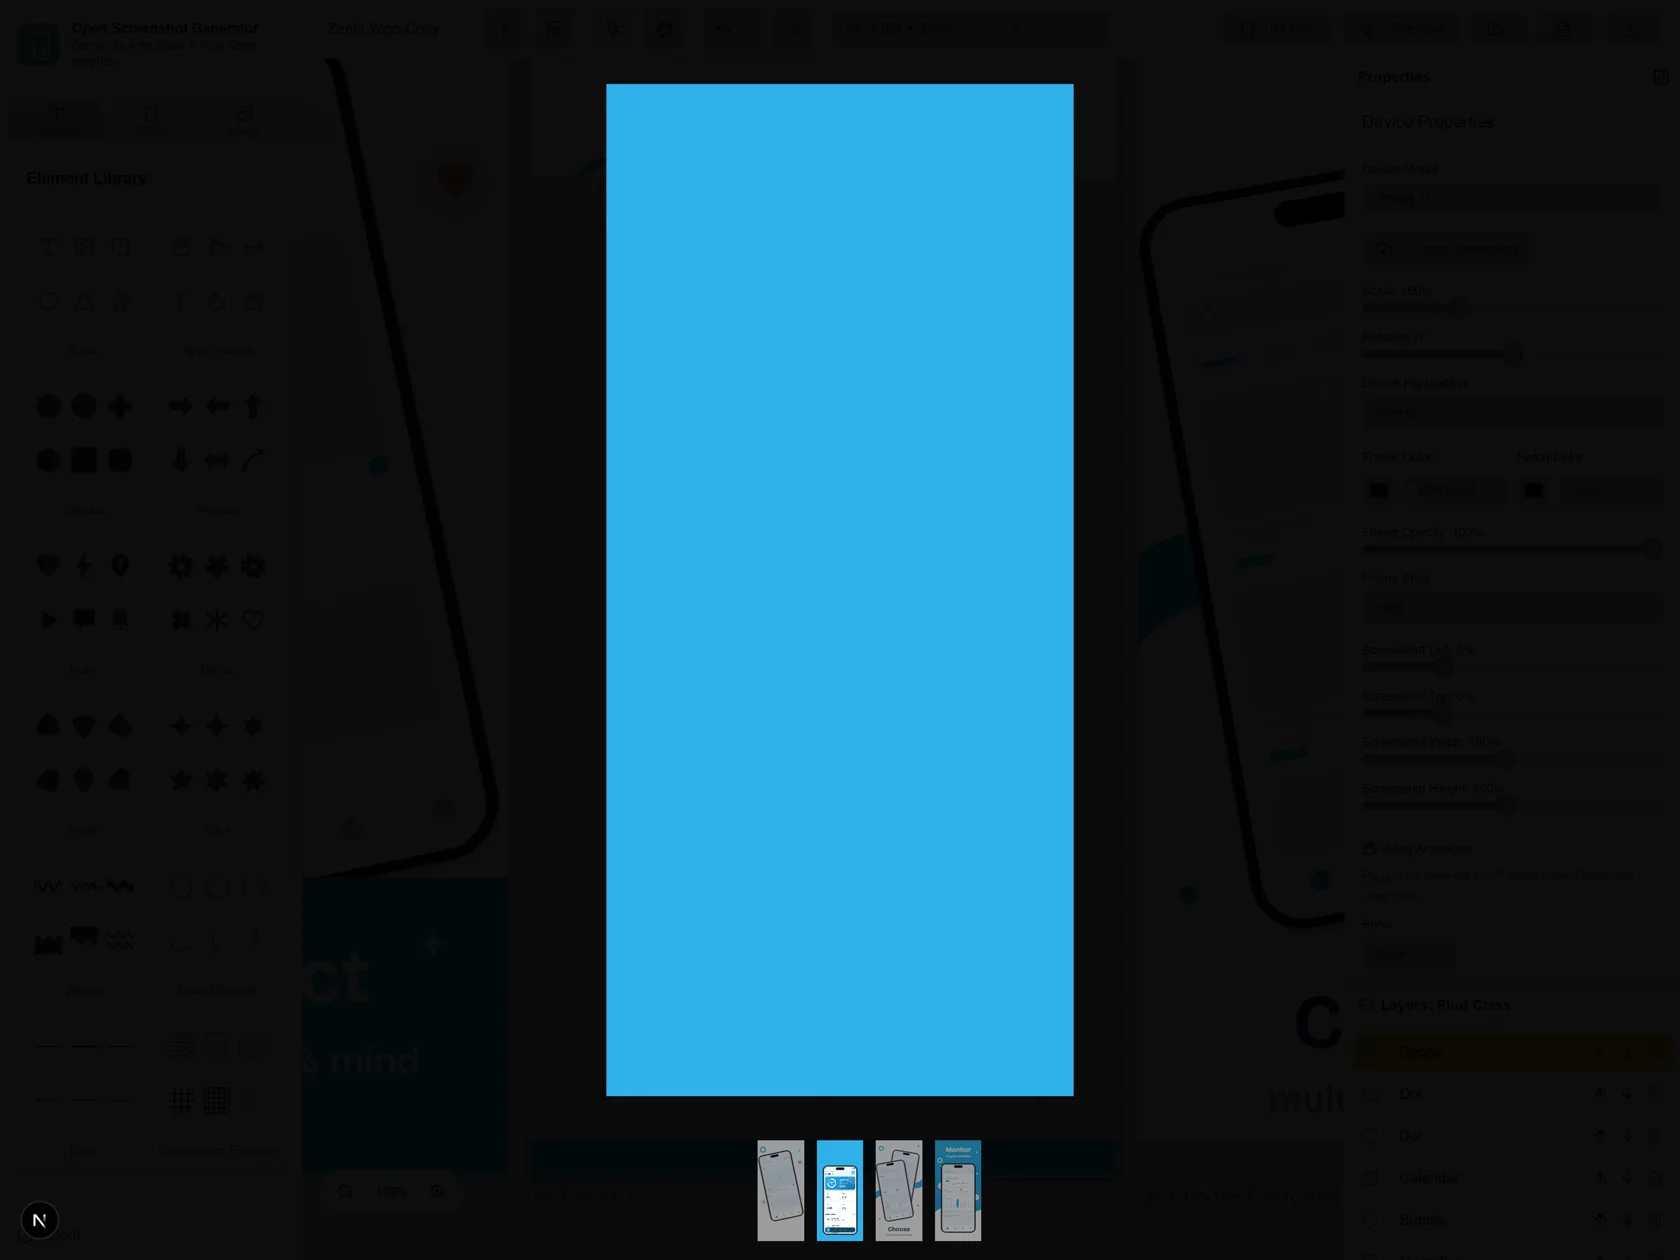
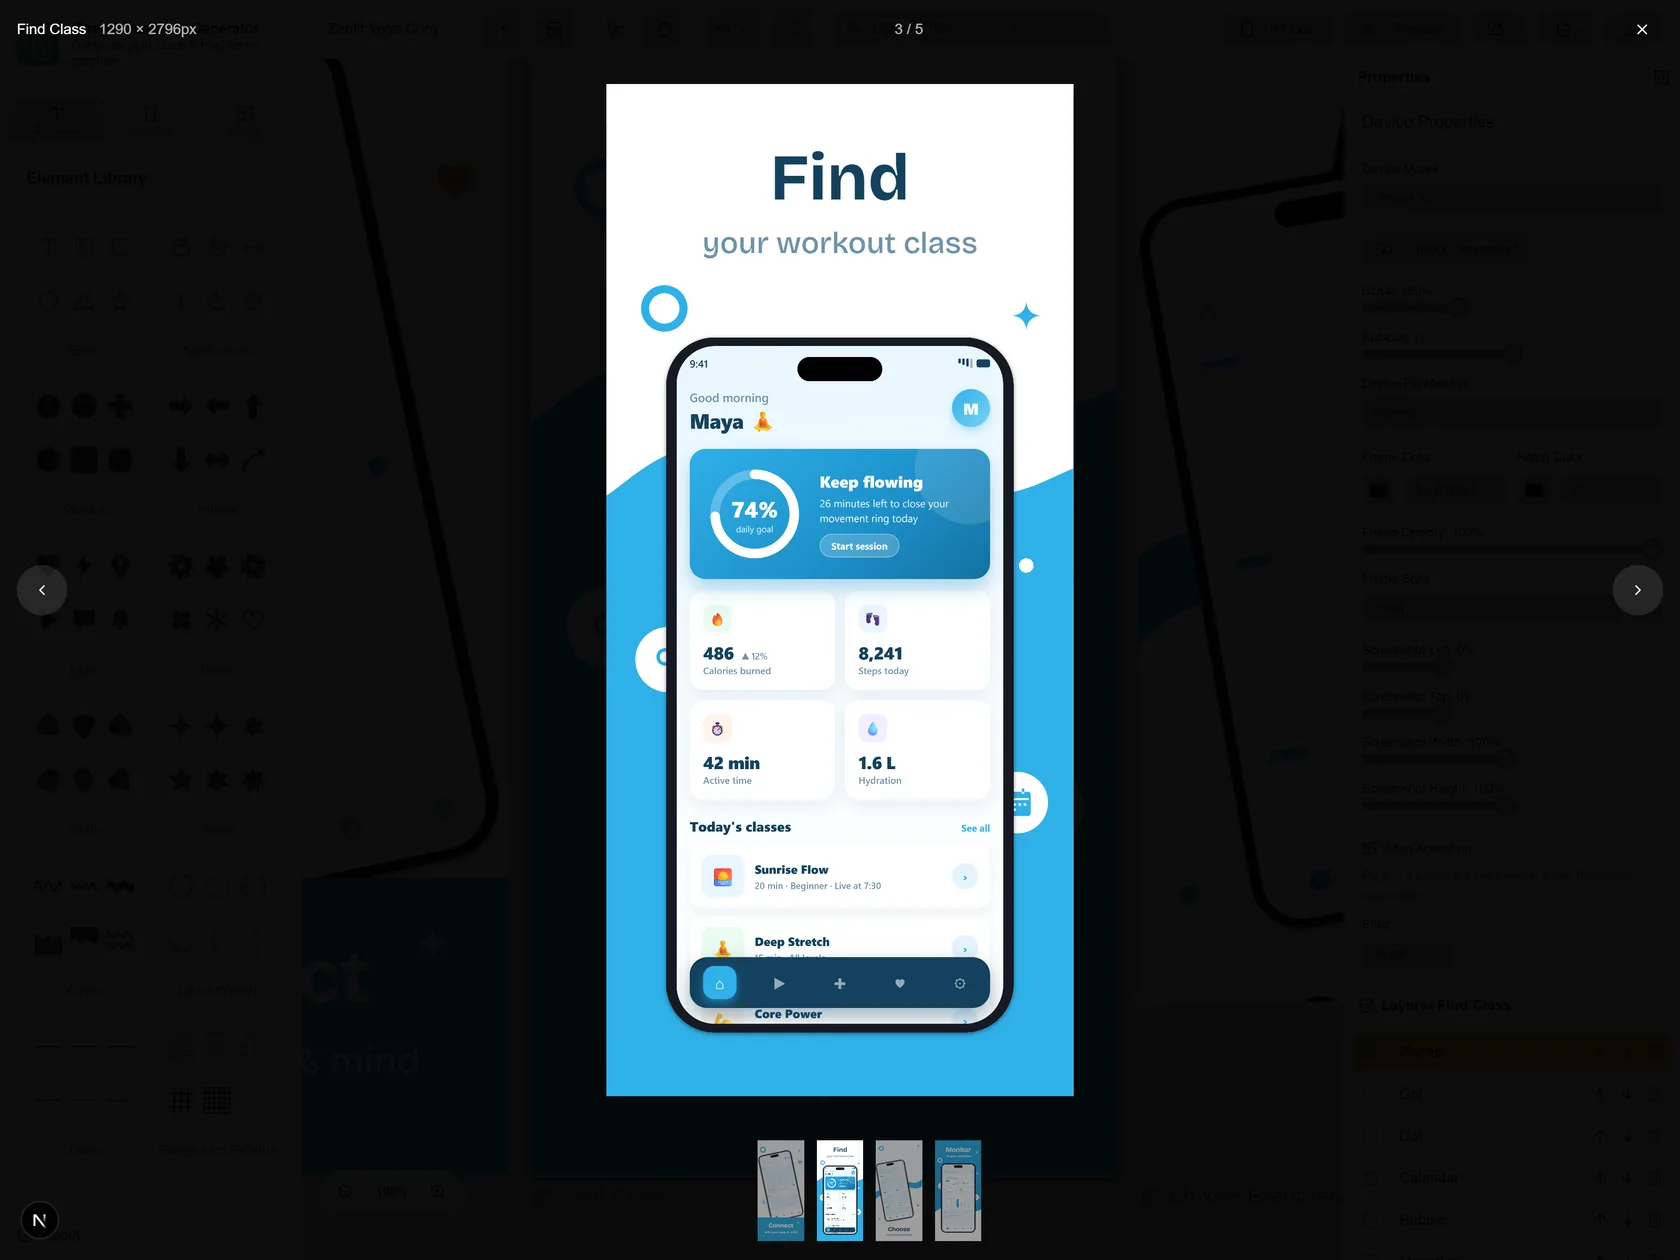
refactor: update font usage to Space Grotesk and improve contact links in multiple HTML files

diff --git a/website/js/main.js b/website/js/main.js
@@ -153,6 +153,9 @@ function buildScene(THREE) {
   // nothing flashes over the hero while textures stream in.
   state.drifters.visible = false;
   state.wall.position.x = 9999;
+  // Corridor strips render at base * intro * corridorFade, so the intro
+  // reveal and the scroll fade never fight over material.opacity.
+  state.corridorFade = 1;
   state.texCache = new Map();
   scene.add(state.corridor, state.stepCards, state.wall, state.drifters);
   window.__ABS_DEBUG = state;
@@ -179,6 +182,9 @@ function buildScene(THREE) {
   gsap.ticker.add(() => {
     camera.rotation.y += (state.mouse.x * -0.028 - camera.rotation.y) * 0.06;
     camera.rotation.x += (state.mouse.y * -0.02 - camera.rotation.x) * 0.06;
+    state.corridor.children.forEach((m) => {
+      m.material.opacity = m.userData.base * m.userData.intro * state.corridorFade;
+    });
     renderer.render(scene, camera);
   });
 
@@ -277,6 +283,8 @@ async function buildCorridor(state) {
     const mat = new THREE.MeshBasicMaterial({ map: tex, transparent: true, opacity: 0, depthWrite: false });
     const mesh = new THREE.Mesh(geo, mat);
     mesh.renderOrder = 1;
+    mesh.userData.base = targetOpacity;
+    mesh.userData.intro = 0;
     const side = i % 2 === 0 ? -1 : 1;
     // Two height bands that hug the top and bottom of the viewport so the
     // hero headline in the middle stays readable.
@@ -285,7 +293,7 @@ async function buildCorridor(state) {
     mesh.rotation.y = side * -(0.42 + rand() * 0.22);
     corridor.add(mesh);
 
-    gsap.to(mat, { opacity: targetOpacity, duration: 1.2, delay: 0.25 + i * 0.09, ease: "power2.out" });
+    gsap.to(mesh.userData, { intro: 1, duration: 1.2, delay: 0.25 + i * 0.09, ease: "power2.out" });
     gsap.from(mesh.position, {
       z: mesh.position.z - 7,
       duration: 1.6,
@@ -313,8 +321,11 @@ function initCorridorScroll(state) {
       endTrigger: ".steps-pin",
       end: "top top",
       scrub: 1,
-      // Past the hero the corridor is done; hide it so stray planes near
-      // the camera cannot smear over later sections.
+      // The strips dissolve over the back half of the ride, so by the time
+      // the group is hidden there is nothing left on screen to pop away.
+      onUpdate(self) {
+        state.corridorFade = 1 - clamp01((self.progress - 0.55) / 0.35);
+      },
       onLeave() { state.corridor.visible = false; },
       onEnterBack() { state.corridor.visible = true; },
     },
@@ -373,6 +384,7 @@ function initStepsScroll(state) {
     end: "+=260%",
     pin: true,
     scrub: 0.7,
+    anticipatePin: 1,
     onUpdate(self) {
       const idx = Math.min(2, Math.floor(self.progress * 2.9999));
       setActiveStep(idx);
@@ -425,13 +437,20 @@ function choreographStepMeshes(state, progress) {
       mesh.position.z = leave * -2.0;
       mesh.rotation.y = leave * 1.05;
       mesh.material.opacity = 1 - leave;
+      if (i === 0) {
+        // The first card has no arrival window before the pin, so it rises
+        // in over the first stretch instead of popping to full opacity.
+        const enter = clamp01(t / 0.08);
+        mesh.position.z += (1 - enter) * -1.6;
+        mesh.material.opacity *= enter * enter;
+      }
       if (i === meshes.length - 1) {
         // Last card stays put, then fades just before the pin releases so
         // it never freezes over the next section.
         mesh.position.x = 0;
         mesh.position.z = 0;
         mesh.rotation.y = 0;
-        mesh.material.opacity = clamp01((1 - t) / 0.15);
+        mesh.material.opacity = clamp01((1 - t) / 0.08);
       }
       // Gentle idle tilt while on stage.
       mesh.rotation.y += Math.sin(t * Math.PI) * 0.06;
@@ -518,6 +537,7 @@ function initWallScroll(state) {
       end: "+=260%",
       pin: true,
       scrub: 1,
+      anticipatePin: 1,
       invalidateOnRefresh: true,
     },
   });
@@ -535,12 +555,13 @@ async function buildDrifters(state) {
     const mat = new THREE.MeshBasicMaterial({
       map: tex,
       transparent: true,
-      opacity: 0.32,
+      opacity: 0,
       depthWrite: false,
     });
     const mesh = new THREE.Mesh(geo, mat);
     mesh.renderOrder = 3;
     mesh.userData.spec = spec;
+    mesh.userData.base = 0.32;
     drifters.add(mesh);
 
     gsap.to(mesh.rotation, {
@@ -564,13 +585,28 @@ async function buildDrifters(state) {
 }
 
 function initDrifterScroll(state) {
+  // The devices breathe in and out over a second rather than snapping,
+  // and the group only truly hides once the fade has finished.
+  const fade = { v: 0 };
+  const apply = () => {
+    state.drifters.children.forEach((m) => {
+      m.material.opacity = m.userData.base * fade.v;
+    });
+    state.drifters.visible = fade.v > 0.001;
+  };
   ScrollTrigger.create({
     trigger: "#features",
     start: "top 80%",
     endTrigger: "#privacy-first",
     end: "bottom top",
     onToggle(self) {
-      state.drifters.visible = self.isActive;
+      gsap.to(fade, {
+        v: self.isActive ? 1 : 0,
+        duration: 1.1,
+        ease: "power2.inOut",
+        overwrite: true,
+        onUpdate: apply,
+      });
     },
   });
   gsap.to(state.drifters.position, {

diff --git a/website/css/main.css b/website/css/main.css
@@ -1,7 +1,7 @@
 /* ============================================================
    Open Screenshot Generator marketing site
    Palette from the app logo: deep teal ink, teal, gold.
-   Type: Fraunces (display) + Space Grotesk (text).
+   Type: Space Grotesk throughout, weight carries the hierarchy.
    ============================================================ */
 
 :root {
@@ -15,7 +15,7 @@
   --gold-soft: #e8c95c;
   --paper: #f4f1e8;
   --muted: #9ab3b5;
-  --font-display: "Fraunces", Georgia, serif;
+  --font-display: "Space Grotesk", system-ui, sans-serif;
   --font-text: "Space Grotesk", system-ui, sans-serif;
   --max: 1200px;
   --pad: clamp(20px, 5vw, 64px);
@@ -132,7 +132,7 @@ main, .site-header, .site-footer, .marquee { position: relative; z-index: 1; }
   line-height: 1.1;
 }
 .brand-name em {
-  font-style: italic;
+  font-style: normal;
   font-weight: 400;
   color: var(--teal);
 }
@@ -257,9 +257,9 @@ main, .site-header, .site-footer, .marquee { position: relative; z-index: 1; }
 
 h1, h2, h3 {
   font-family: var(--font-display);
-  font-weight: 520;
-  line-height: 1.06;
-  letter-spacing: -0.01em;
+  font-weight: 600;
+  line-height: 1.08;
+  letter-spacing: -0.02em;
 }
 
 h2 {
@@ -269,8 +269,7 @@ h2 {
 }
 
 h2 em, h1 em {
-  font-style: italic;
-  font-weight: 420;
+  font-style: normal;
   color: var(--gold);
 }
 
@@ -410,8 +409,8 @@ html:not(.js) .hero-fallback {
 }
 .marquee-track span {
   font-family: var(--font-display);
-  font-style: italic;
-  font-size: 1.15rem;
+  font-size: 1.05rem;
+  letter-spacing: 0.02em;
   color: var(--muted);
 }
 .marquee-track i { color: var(--gold); font-style: normal; font-size: 0.8rem; }
@@ -479,7 +478,7 @@ html:not(.js) .steps-progress { display: none; }
 
 .step-num {
   font-family: var(--font-display);
-  font-style: italic;
+  font-weight: 600;
   font-size: clamp(3.4rem, 6vw, 5.4rem);
   line-height: 1;
   color: transparent;
@@ -611,9 +610,9 @@ html:not(.js) .wall-fallback {
 
 .feature-index {
   font-family: var(--font-display);
-  font-style: italic;
   color: var(--teal);
-  font-size: 0.95rem;
+  font-size: 0.85rem;
+  letter-spacing: 0.14em;
   display: block;
   margin-bottom: 40px;
 }

diff --git a/website/privacy.html b/website/privacy.html
@@ -23,7 +23,7 @@
   <link rel="icon" type="image/svg+xml" href="assets/logo.svg" />
   <link rel="preconnect" href="https://fonts.googleapis.com" />
   <link rel="preconnect" href="https://fonts.gstatic.com" crossorigin />
-  <link href="https://fonts.googleapis.com/css2?family=Fraunces:ital,opsz,wght@0,9..144,300..900;1,9..144,300..900&family=Space+Grotesk:wght@300..700&display=swap" rel="stylesheet" />
+  <link href="https://fonts.googleapis.com/css2?family=Space+Grotesk:wght@300..700&display=swap" rel="stylesheet" />
   <link rel="stylesheet" href="css/main.css" />
 </head>
 <body>
@@ -50,7 +50,7 @@
     <p><strong>The short version.</strong> Open Screenshot Generator was built so that your work never has to leave your computer. The editor has no accounts, no backend, and no analytics. Your projects, screenshots, and recordings are stored in your own browser and are never uploaded to us. We could not look at your designs even if we wanted to, because there is no server for them to reach</p>
 
     <h2>Who we are</h2>
-    <p>Open Screenshot Generator is a free project with its source code public on GitHub. This policy covers the marketing website at openscrgen.app, the editor at editor.openscrgen.app, and the desktop app. If you have any question about it, write to <a href="mailto:[email redacted]">[email redacted]</a></p>
+    <p>Open Screenshot Generator is a free project with its source code public on GitHub. This policy covers the marketing website at openscrgen.app, the editor at editor.openscrgen.app, and the desktop app. If you have any question about it, open an issue on <a href="https://github.com/dotnetdreamer/open-screenshot-generator/issues" rel="noopener">GitHub</a></p>
 
     <h2>What the editor stores, and where</h2>
     <ul>
@@ -88,7 +88,7 @@
     <p>If the way the project handles data ever changes, this page will be updated and the date at the top will move. Significant changes will also be noted in the project's release notes on GitHub</p>
 
     <h2>Contact</h2>
-    <p>Questions, concerns, or requests can go to <a href="mailto:[email redacted]">[email redacted]</a> or to the <a href="https://github.com/dotnetdreamer/open-screenshot-generator/issues" rel="noopener">issue tracker on GitHub</a></p>
+    <p>Questions, concerns, or requests can go to the <a href="https://github.com/dotnetdreamer/open-screenshot-generator/issues" rel="noopener">issue tracker on GitHub</a></p>
   </main>
 
   <footer class="site-footer">

diff --git a/website/404.html b/website/404.html
@@ -9,13 +9,13 @@
   <link rel="icon" type="image/svg+xml" href="/assets/logo.svg" />
   <link rel="preconnect" href="https://fonts.googleapis.com" />
   <link rel="preconnect" href="https://fonts.gstatic.com" crossorigin />
-  <link href="https://fonts.googleapis.com/css2?family=Fraunces:ital,opsz,wght@0,9..144,300..900;1,9..144,300..900&family=Space+Grotesk:wght@300..700&display=swap" rel="stylesheet" />
+  <link href="https://fonts.googleapis.com/css2?family=Space+Grotesk:wght@300..700&display=swap" rel="stylesheet" />
   <link rel="stylesheet" href="/css/main.css" />
 </head>
 <body>
   <div class="grain" aria-hidden="true"></div>
   <main class="legal" style="text-align: center; min-height: 70vh; display: flex; flex-direction: column; justify-content: center; align-items: center;">
-    <h1 style="font-size: clamp(4rem, 12vw, 9rem);">4<em style="color: var(--gold); font-style: italic;">0</em>4</h1>
+    <h1 style="font-size: clamp(4rem, 12vw, 9rem);">4<em style="color: var(--gold); font-style: normal;">0</em>4</h1>
     <p style="margin: 18px 0 34px;">This artboard is empty. The page you wanted moved or never existed</p>
     <div style="display: flex; gap: 14px; flex-wrap: wrap; justify-content: center;">
       <a class="btn btn-gold" href="/">Back to the homepage</a>

diff --git a/website/index.html b/website/index.html
@@ -30,7 +30,7 @@
 
   <link rel="preconnect" href="https://fonts.googleapis.com" />
   <link rel="preconnect" href="https://fonts.gstatic.com" crossorigin />
-  <link href="https://fonts.googleapis.com/css2?family=Fraunces:ital,opsz,wght@0,9..144,300..900;1,9..144,300..900&family=Space+Grotesk:wght@300..700&display=swap" rel="stylesheet" />
+  <link href="https://fonts.googleapis.com/css2?family=Space+Grotesk:wght@300..700&display=swap" rel="stylesheet" />
 
   <link rel="stylesheet" href="css/main.css" />
 
@@ -408,7 +408,7 @@
         <h3>Legal</h3>
         <a href="privacy.html">Privacy policy</a>
         <a href="terms.html">Terms of use</a>
-        <a href="mailto:[email redacted]">Contact</a>
+        <a href="https://github.com/dotnetdreamer/open-screenshot-generator/issues" rel="noopener">Contact</a>
       </nav>
     </div>
     <div class="footer-bottom">

diff --git a/website/terms.html b/website/terms.html
@@ -23,7 +23,7 @@
   <link rel="icon" type="image/svg+xml" href="assets/logo.svg" />
   <link rel="preconnect" href="https://fonts.googleapis.com" />
   <link rel="preconnect" href="https://fonts.gstatic.com" crossorigin />
-  <link href="https://fonts.googleapis.com/css2?family=Fraunces:ital,opsz,wght@0,9..144,300..900;1,9..144,300..900&family=Space+Grotesk:wght@300..700&display=swap" rel="stylesheet" />
+  <link href="https://fonts.googleapis.com/css2?family=Space+Grotesk:wght@300..700&display=swap" rel="stylesheet" />
   <link rel="stylesheet" href="css/main.css" />
 </head>
 <body>
@@ -79,7 +79,7 @@
     <p>The project evolves, and features may change or be removed. These terms may be updated from time to time, and the date at the top will always tell you when. Continuing to use the service after a change means you accept the updated terms</p>
 
     <h2>Contact</h2>
-    <p>Questions about these terms can go to <a href="mailto:[email redacted]">[email redacted]</a> or to the <a href="https://github.com/dotnetdreamer/open-screenshot-generator/issues" rel="noopener">issue tracker on GitHub</a></p>
+    <p>Questions about these terms can go to the <a href="https://github.com/dotnetdreamer/open-screenshot-generator/issues" rel="noopener">issue tracker on GitHub</a></p>
   </main>
 
   <footer class="site-footer">